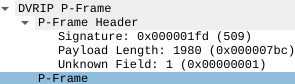
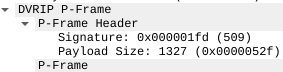
Updated header descriptions of media frames

diff --git a/dissector/README.md b/dissector/README.md
@@ -75,7 +75,8 @@ Header description of a single DVRIP/Sofia message is based on [Digital Video Re
 5. BIT 7 - low 8 bits of image height; the value is actual height divided by 8
 6. BIT 8-11 - datetime of the capture
 7. BIT 12-15 - length of I-Frame payload
-8. BIT 16-19 - first 4 bits of an I-Frame payload
+
+First 4 bits of an I-Frame payload (BITS 16-19) are equal to `0x00000001`
 
 Same exact header fields are shared between I-Frames (FC) and snapshots (FE).
 
@@ -89,7 +90,8 @@ Extension of I-Frames.
 
 1. BIT 0-3 - signature
 2. BIT 4-7 - length of P-Frame payload
-3. BIT 8-11 - first 4 bits of a P-Frame payload
+
+First 4 bits of a P-Frame payload (BITS 8-11) are equal to `0x00000001`
 
 # Information Frame Header
 
